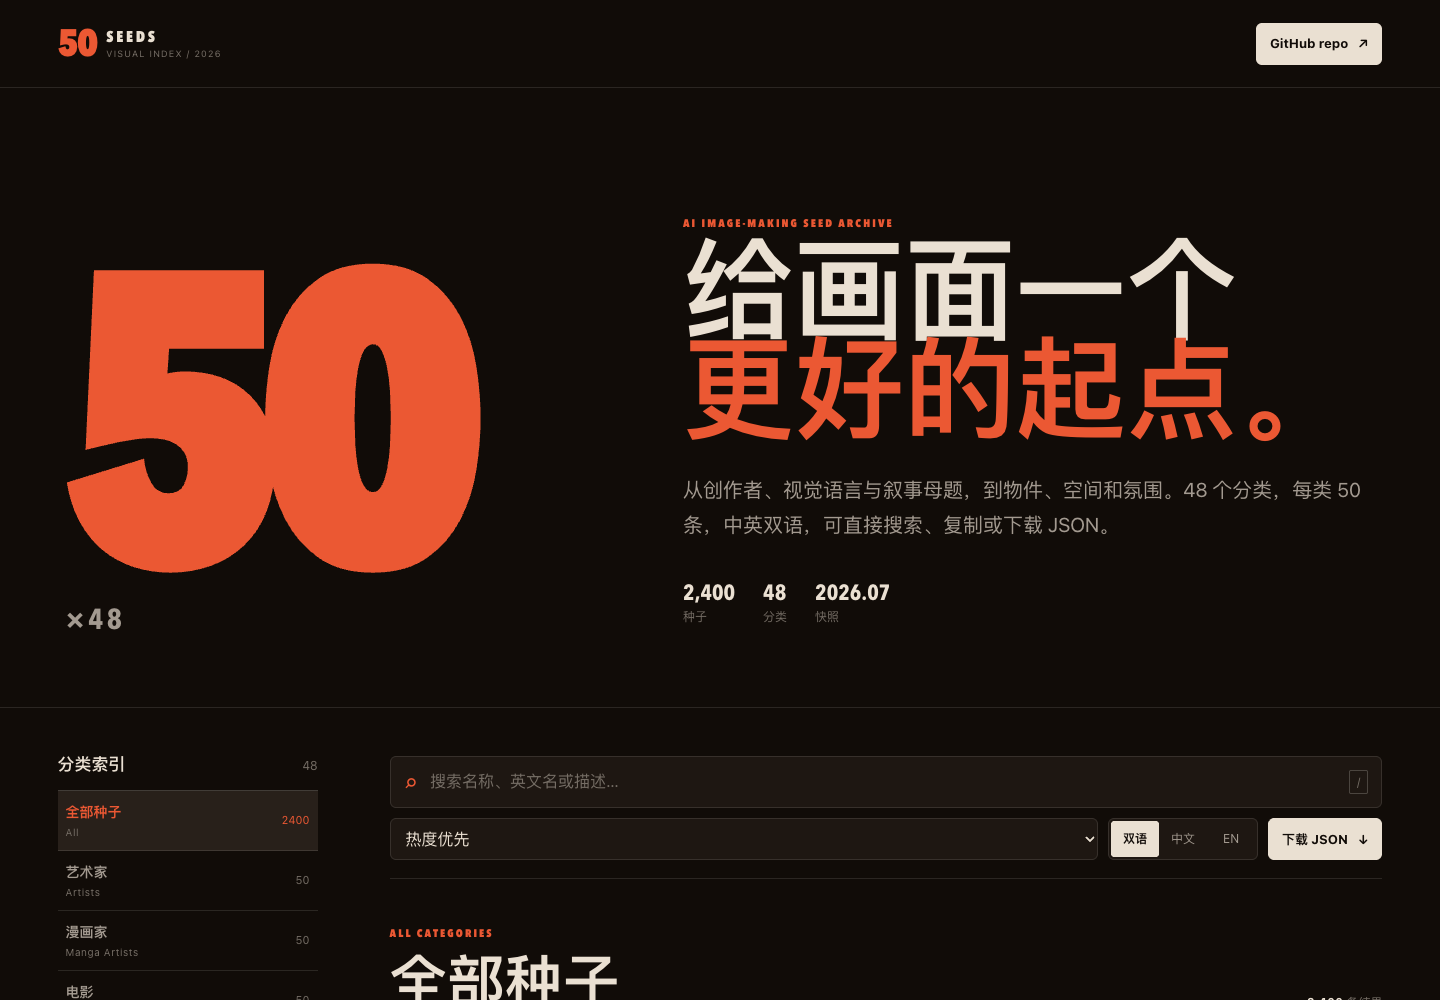
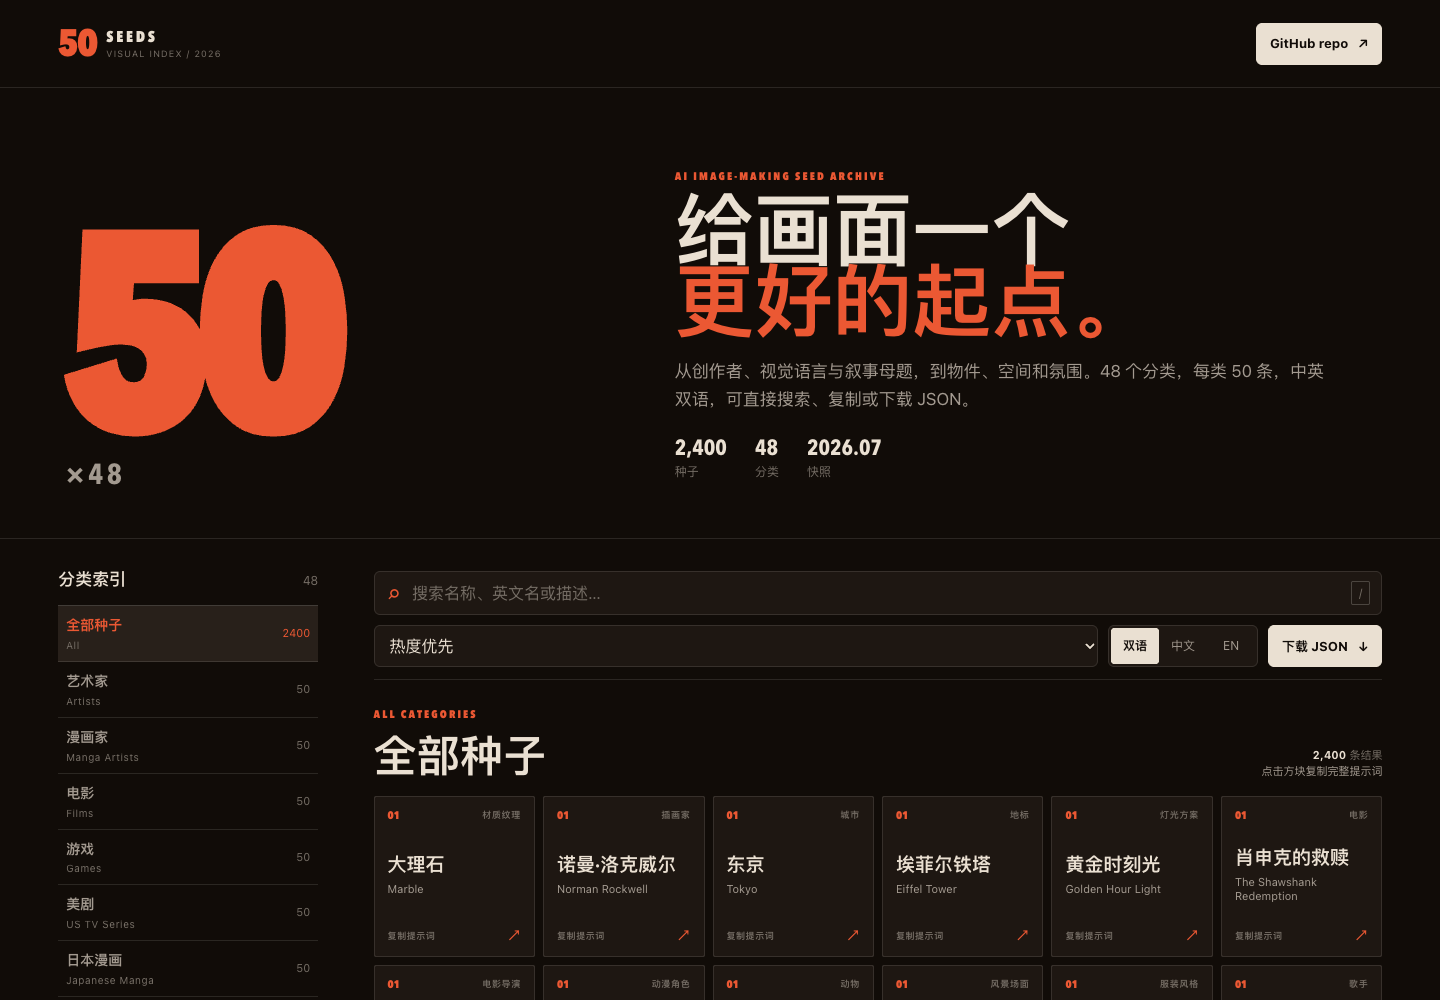
feat: compact seed browser into tile grid

diff --git a/styles.css b/styles.css
@@ -119,26 +119,26 @@ button:focus-visible, a:focus-visible, input:focus-visible, select:focus-visible
 main { display: block; }
 
 .intro {
-  min-height: 620px;
+  min-height: 390px;
   display: grid;
   grid-template-columns: minmax(260px, .9fr) minmax(460px, 1.2fr);
   align-items: end;
-  gap: clamp(32px, 7vw, 120px);
-  padding: clamp(56px, 9vw, 128px) clamp(20px, 4vw, 64px) 72px;
+  gap: clamp(32px, 6vw, 96px);
+  padding: clamp(48px, 6vw, 82px) clamp(20px, 4vw, 64px) 48px;
   border-bottom: 1px solid var(--hairline);
   overflow: hidden;
 }
 
 .intro-number {
   color: var(--accent);
-  font: 850 clamp(190px, 29vw, 430px)/.68 var(--font-display);
+  font: 850 clamp(150px, 20vw, 286px)/.68 var(--font-display);
   letter-spacing: -.085em;
   white-space: nowrap;
 }
 
 .intro-number span {
   display: block;
-  margin: 30px 0 0 8px;
+  margin: 22px 0 0 8px;
   color: var(--muted);
   font: 650 clamp(20px, 2vw, 30px)/1 var(--font-display);
   letter-spacing: .12em;
@@ -149,16 +149,16 @@ main { display: block; }
 
 h1, h2, h3, p { margin-top: 0; }
 .intro h1 {
-  margin-bottom: 30px;
+  margin-bottom: 18px;
   font-family: var(--font-display);
-  font-size: clamp(56px, 7.7vw, 116px);
+  font-size: clamp(48px, 5.5vw, 82px);
   font-weight: 650;
   line-height: .89;
   text-wrap: balance;
 }
 
 .intro h1 em { color: var(--accent); font-style: normal; }
-.lede { max-width: 62ch; margin-bottom: 38px; color: var(--muted); font-size: clamp(16px, 1.5vw, 20px); line-height: 1.75; text-wrap: pretty; }
+.lede { max-width: 62ch; margin-bottom: 22px; color: var(--muted); font-size: clamp(14px, 1.25vw, 17px); line-height: 1.65; text-wrap: pretty; }
 
 .stats { display: flex; flex-wrap: wrap; gap: 28px; }
 .stats span { display: grid; color: var(--faint); font-size: 12px; }
@@ -167,8 +167,8 @@ h1, h2, h3, p { margin-top: 0; }
 .workspace {
   display: grid;
   grid-template-columns: 260px minmax(0, 1fr);
-  gap: clamp(32px, 5vw, 80px);
-  padding: 48px clamp(20px, 4vw, 64px) 96px;
+  gap: clamp(28px, 4vw, 56px);
+  padding: 32px clamp(20px, 4vw, 64px) 72px;
 }
 
 .category-panel { position: sticky; top: 20px; align-self: start; max-height: calc(100vh - 40px); overflow: auto; scrollbar-width: thin; }
@@ -179,12 +179,12 @@ h1, h2, h3, p { margin-top: 0; }
 
 .category-button {
   width: 100%;
-  min-height: 54px;
+  min-height: 46px;
   display: flex;
   align-items: center;
   justify-content: space-between;
   gap: 12px;
-  padding: 9px 8px;
+  padding: 7px 8px;
   border: 0;
   border-bottom: 1px solid var(--hairline);
   border-radius: 0;
@@ -204,8 +204,8 @@ h1, h2, h3, p { margin-top: 0; }
 .category-button.is-active b, .category-button.is-active em { color: var(--accent); }
 
 .results-panel { min-width: 0; }
-.toolbar { position: sticky; top: 0; z-index: 10; margin: -16px 0 48px; padding: 16px 0 18px; background: var(--canvas); border-bottom: 1px solid var(--hairline); }
-.search-box { height: 52px; display: flex; align-items: center; gap: 10px; padding: 0 14px; background: var(--surface); border-radius: var(--radius-sm); box-shadow: inset 0 0 0 1px var(--hairline); }
+.toolbar { position: sticky; top: 0; z-index: 10; margin: -10px 0 28px; padding: 10px 0 12px; background: var(--canvas); border-bottom: 1px solid var(--hairline); }
+.search-box { height: 44px; display: flex; align-items: center; gap: 10px; padding: 0 12px; background: var(--surface); border-radius: var(--radius-sm); box-shadow: inset 0 0 0 1px var(--hairline); }
 .search-box > span { color: var(--accent); font-size: 24px; line-height: 1; }
 .search-box input { min-width: 0; flex: 1; border: 0; outline: 0; background: transparent; color: var(--paper); }
 .search-box input::placeholder { color: var(--faint); }
@@ -229,38 +229,57 @@ kbd { border: 1px solid var(--hairline-strong); border-radius: var(--radius-xs);
 .language-toggle button.is-active { background: var(--paper); color: var(--canvas); font-weight: 700; }
 .toolbar-row .download-link { min-height: 42px; }
 
-.result-heading { display: flex; align-items: end; justify-content: space-between; gap: 20px; margin-bottom: 12px; }
-.result-heading h2 { margin: 0; font: 650 clamp(34px, 4vw, 58px)/1 var(--font-display); }
-.result-heading > p { margin: 0; color: var(--faint); font-size: 12px; }
+.result-heading { display: flex; align-items: end; justify-content: space-between; gap: 20px; margin-bottom: 16px; }
+.result-heading h2 { margin: 0; font: 650 clamp(30px, 3vw, 44px)/1 var(--font-display); }
+.result-heading > p { margin: 0; color: var(--faint); font-size: 11px; line-height: 1.5; text-align: right; }
+.result-heading > p span { color: var(--muted); }
 .result-heading strong { color: var(--paper); font-variant-numeric: tabular-nums; }
 
 .status { padding: 28px 0; color: var(--muted); border-top: 1px solid var(--hairline); }
-.seed-list { margin: 0; padding: 0; list-style: none; border-top: 1px solid var(--hairline-strong); }
-.seed-item {
-  min-height: 128px;
+.seed-list {
   display: grid;
-  grid-template-columns: 42px minmax(0, 1fr) auto;
-  gap: 18px;
-  align-items: start;
-  padding: 20px 10px 22px 0;
-  border-bottom: 1px solid var(--hairline);
-  transition-property: transform, opacity;
-  transition-duration: 180ms;
+  grid-template-columns: repeat(auto-fill, minmax(142px, 1fr));
+  gap: 8px;
+  margin: 0;
+  padding: 0;
+  list-style: none;
+}
+.seed-item {
+  min-width: 0;
+  aspect-ratio: 1;
 }
 
-.rank { color: var(--accent); font: 700 12px/1.6 var(--font-display); font-variant-numeric: tabular-nums; }
-.seed-content { display: grid; grid-template-columns: minmax(190px, .55fr) minmax(280px, 1fr); gap: clamp(20px, 4vw, 64px); }
-.seed-category { display: block; margin-bottom: 5px; color: var(--accent); font: 700 9px/1 var(--font-display); letter-spacing: .14em; }
-.seed-title h3 { margin-bottom: 2px; font: 650 clamp(19px, 2vw, 24px)/1.2 var(--font-display); text-wrap: balance; }
-.seed-title p { margin: 0; color: var(--faint); font-size: 12px; line-height: 1.45; }
-.seed-description p { max-width: 76ch; margin: 0 0 6px; color: var(--muted); font-size: 13px; line-height: 1.65; text-wrap: pretty; }
-.seed-description p[lang="en"] { color: var(--faint); }
-.copy-button { min-width: 48px; min-height: 40px; padding: 0 10px; border: 1px solid var(--hairline-strong); border-radius: var(--radius-sm); background: transparent; color: var(--muted); font-size: 12px; cursor: pointer; transition-property: transform, opacity; transition-duration: 140ms; }
+.seed-tile {
+  width: 100%;
+  height: 100%;
+  min-width: 0;
+  display: grid;
+  grid-template-rows: auto 1fr auto;
+  gap: 10px;
+  padding: 13px;
+  border: 1px solid var(--hairline);
+  border-radius: var(--radius-xs);
+  background: var(--surface);
+  color: var(--paper);
+  text-align: left;
+  cursor: pointer;
+  transition: transform 150ms ease, border-color 150ms ease, background-color 150ms ease;
+}
+.seed-meta, .copy-cue { display: flex; align-items: center; justify-content: space-between; gap: 8px; min-width: 0; }
+.rank { color: var(--accent); font: 750 11px/1 var(--font-display); font-variant-numeric: tabular-nums; }
+.seed-category { min-width: 0; overflow-wrap: anywhere; color: var(--faint); font: 700 9px/1.2 var(--font-display); letter-spacing: .08em; text-align: right; }
+.seed-name { min-width: 0; align-self: center; display: grid; gap: 5px; }
+.seed-name strong { overflow-wrap: anywhere; font: 650 19px/1.15 var(--font-display); }
+.seed-name > span { overflow-wrap: anywhere; color: var(--muted); font-size: 11px; line-height: 1.25; }
+.seed-tile.has-long-name .seed-name strong { font-size: 16px; line-height: 1.12; }
+.seed-tile.has-long-name .seed-name > span { font-size: 10px; line-height: 1.18; }
+.copy-cue { color: var(--faint); font: 650 9px/1 var(--font-display); letter-spacing: .06em; }
+.copy-cue > span:last-child { color: var(--accent); font-size: 13px; }
 
 .load-more { width: 100%; min-height: 54px; margin-top: 18px; border: 1px solid var(--hairline-strong); border-radius: var(--radius-sm); background: var(--surface); color: var(--paper); cursor: pointer; }
 .load-more span { color: var(--accent); font-variant-numeric: tabular-nums; }
 
-.methodology { display: grid; grid-template-columns: .5fr 1fr 1fr; gap: clamp(24px, 5vw, 72px); padding: 88px clamp(20px, 4vw, 64px); background: var(--surface); border-top: 1px solid var(--hairline); }
+.methodology { display: grid; grid-template-columns: .5fr 1fr 1fr; gap: clamp(24px, 5vw, 72px); padding: 56px clamp(20px, 4vw, 64px); background: var(--surface); border-top: 1px solid var(--hairline); }
 .methodology h2 { max-width: 12ch; margin: 0; font: 650 clamp(36px, 5vw, 68px)/.98 var(--font-display); text-wrap: balance; }
 .methodology > p:not(.eyebrow) { max-width: 64ch; margin: 0; color: var(--muted); text-wrap: pretty; }
 .source-links { grid-column: 2 / -1; display: flex; flex-wrap: wrap; gap: 8px; }
@@ -280,8 +299,7 @@ footer div { display: flex; gap: 20px; }
 @media (hover: hover) {
   .repo-link:hover, .download-link:hover { opacity: .82; transform: translateY(-2px); }
   .category-button:hover { transform: translateX(3px); color: var(--paper); }
-  .seed-item:hover { transform: translateX(3px); background: var(--surface); }
-  .copy-button:hover { color: var(--paper); border-color: var(--accent); }
+  .seed-tile:hover { transform: translateY(-2px); border-color: var(--accent); background: var(--surface-raised); }
   .source-links a:hover { color: var(--paper); border-color: var(--accent); }
 }
 
@@ -290,12 +308,18 @@ footer div { display: flex; gap: 20px; }
   .brand-mark { font-size: 32px; }
   .repo-link { min-width: 42px; padding-inline: 11px; font-size: 0; }
   .repo-link span { font-size: 18px; }
-  .intro { min-height: auto; grid-template-columns: 1fr; gap: 42px; padding: 64px 20px 56px; }
-  .intro-number { font-size: clamp(150px, 50vw, 230px); }
-  .intro-number span { margin-top: 24px; }
-  .intro h1 { font-size: clamp(54px, 16vw, 88px); }
-  .workspace { display: block; padding: 28px 20px 72px; }
-  .category-panel { position: static; max-height: none; margin-bottom: 28px; overflow: visible; }
+  .intro { min-height: auto; grid-template-columns: 92px minmax(0, 1fr); align-items: start; gap: 18px; padding: 28px 20px 30px; }
+  .intro-number { font-size: 82px; line-height: .72; }
+  .intro-number span { display: block; margin: 13px 0 0 4px; font-size: 14px; }
+  .intro-copy { padding: 0; }
+  .intro-copy .eyebrow { margin-bottom: 9px; font-size: 9px; letter-spacing: .14em; }
+  .intro h1 { margin-bottom: 0; font-size: clamp(38px, 11vw, 50px); }
+  .lede { display: none; }
+  .stats { gap: 14px; margin-top: 18px; }
+  .stats strong { font-size: 18px; }
+  .stats span { font-size: 10px; }
+  .workspace { display: block; padding: 22px 20px 56px; }
+  .category-panel { position: static; max-height: none; margin-bottom: 20px; overflow: visible; }
   .panel-heading { padding-bottom: 12px; }
   .category-list { display: flex; gap: 8px; margin: 0 -20px; padding: 12px 20px 6px; overflow-x: auto; scroll-snap-type: x proximity; scrollbar-width: none; }
   .category-list::-webkit-scrollbar { display: none; }
@@ -303,16 +327,12 @@ footer div { display: flex; gap: 20px; }
   .category-button small { display: none; }
   .category-button.is-active { border-color: var(--accent); background: var(--accent); color: var(--accent-ink); }
   .category-button.is-active b, .category-button.is-active em { color: var(--accent-ink); }
-  .toolbar { margin: 0 -20px 36px; padding: 12px 20px 16px; }
+  .toolbar { margin: 0 -20px 24px; padding: 10px 20px 12px; }
   .toolbar-row { flex-wrap: wrap; }
   .select-wrap { min-width: 120px; }
   .toolbar-row .download-link { flex: 1; justify-content: center; }
   .result-heading { align-items: start; }
-  .result-heading h2 { font-size: 42px; }
-  .seed-item { grid-template-columns: 34px minmax(0, 1fr) auto; gap: 10px; padding-right: 0; }
-  .seed-content { grid-template-columns: 1fr; gap: 12px; }
-  .seed-title h3 { font-size: 21px; }
-  .copy-button { align-self: start; }
+  .result-heading h2 { font-size: 36px; }
   .methodology { grid-template-columns: 1fr; padding: 64px 20px; }
   .methodology h2 { max-width: 11ch; }
   .source-links { grid-column: auto; }
@@ -326,9 +346,10 @@ footer div { display: flex; gap: 20px; }
   .language-toggle { flex: 1; }
   .language-toggle button { flex: 1; min-width: 0; }
   .result-heading { display: block; }
-  .result-heading > p { margin-top: 10px; }
-  .seed-item { grid-template-columns: 28px minmax(0, 1fr); }
-  .copy-button { grid-column: 2; width: fit-content; }
+  .result-heading > p { margin-top: 8px; text-align: left; }
+  .seed-list { grid-template-columns: repeat(2, minmax(0, 1fr)); gap: 6px; }
+  .seed-tile { padding: 11px; }
+  .seed-name strong { font-size: 17px; }
   footer { display: grid; }
 }
 

diff --git a/app.js b/app.js
@@ -4,10 +4,10 @@ const state = {
   search: "",
   sort: "priority",
   language: "both",
-  visible: 72
+  visible: 120
 };
 
-const pageSize = 72;
+const pageSize = 120;
 const elements = {
   categoryList: document.querySelector("#category-list"),
   categoryCounter: document.querySelector("#category-counter"),
@@ -68,21 +68,20 @@ function renderCategories() {
 function resultMarkup(seed) {
   const showZh = state.language !== "en";
   const showEn = state.language !== "zh";
+  const hasLongName = seed.name.length > 12 || seed.englishName.length > 28;
   return `
     <li class="seed-item" data-seed-id="${seed.id}">
-      <span class="rank" aria-label="分类内热度排名 ${seed.priority}">${String(seed.priority).padStart(2, "0")}</span>
-      <div class="seed-content">
-        <div class="seed-title">
+      <button type="button" class="seed-tile${hasLongName ? " has-long-name" : ""}" data-copy="${seed.id}" aria-label="复制 ${escapeHtml(seed.name)} 的完整双语提示词">
+        <span class="seed-meta">
+          <span class="rank" aria-label="分类内热度排名 ${seed.priority}">${String(seed.priority).padStart(2, "0")}</span>
           <span class="seed-category">${escapeHtml(seed.categoryName)}</span>
-          <h3>${escapeHtml(seed.name)}</h3>
-          <p lang="en">${escapeHtml(seed.englishName)}</p>
-        </div>
-        <div class="seed-description">
-          ${showZh ? `<p lang="zh-CN">${escapeHtml(seed.style)}</p>` : ""}
-          ${showEn ? `<p lang="en">${escapeHtml(seed.englishStyle)}</p>` : ""}
-        </div>
-      </div>
-      <button type="button" class="copy-button" data-copy="${seed.id}" aria-label="复制 ${escapeHtml(seed.name)} 的双语提示词">复制</button>
+        </span>
+        <span class="seed-name">
+          ${showZh ? `<strong lang="zh-CN">${escapeHtml(seed.name)}</strong>` : ""}
+          ${showEn ? `<span lang="en">${escapeHtml(seed.englishName)}</span>` : ""}
+        </span>
+        <span class="copy-cue"><span>复制提示词</span><span aria-hidden="true">↗</span></span>
+      </button>
     </li>
   `;
 }

diff --git a/index.html b/index.html
@@ -66,7 +66,7 @@
                   <option value="englishName">English A–Z</option>
                 </select>
               </label>
-              <div class="language-toggle" aria-label="描述语言">
+              <div class="language-toggle" aria-label="卡片语言">
                 <button type="button" data-language="both" class="is-active" aria-pressed="true">双语</button>
                 <button type="button" data-language="zh" aria-pressed="false">中文</button>
                 <button type="button" data-language="en" aria-pressed="false">EN</button>
@@ -80,7 +80,7 @@
               <p class="eyebrow" id="active-category-en">ALL CATEGORIES</p>
               <h2 id="active-category">全部种子</h2>
             </div>
-            <p><strong id="result-count">0</strong> 条结果</p>
+            <p><strong id="result-count">0</strong> 条结果<br><span>点击方块复制完整提示词</span></p>
           </div>
 
           <div id="status" class="status" role="status" aria-live="polite">正在载入种子库…</div>

diff --git a/DESIGN.md b/DESIGN.md
@@ -19,11 +19,11 @@ Display uses `Avenir Next Condensed` with PingFang fallbacks for a narrow archiv
 
 ## 4. Component styling
 
-Buttons and filters use 2px, 6px, 12px, and pill as the fixed radius scale. Controls sit on stepped dark surfaces with hairline separators. Records are ledger rows, not floating cards. Hover changes surface and translation by 2px; press scales to 0.97. Focus uses a 2px vermilion outline.
+Buttons and filters use 2px, 6px, 12px, and pill as the fixed radius scale. Controls sit on stepped dark surfaces with hairline separators. Records are compact square index tiles in a responsive grid, with the entire tile acting as the copy action. Hover changes border, surface, and translation by 2px; press scales to 0.97. Focus uses a 2px vermilion outline.
 
 ## 5. Layout principles
 
-Desktop uses a sticky 260px category index and a fluid result ledger. The first screen is asymmetric: a large `50` mark anchors the left while the purpose and controls occupy the right. Spacing follows 4, 8, 12, 16, 24, 32, and 48px.
+Desktop uses a sticky 260px category index and a fluid square-tile grid. The compact first screen is asymmetric: a `50` mark anchors the left while the purpose and controls occupy the right. Spacing follows 4, 8, 12, 16, 24, 32, and 48px.
 
 ## 6. Depth and elevation
 
@@ -46,6 +46,6 @@ Below 820px the category index becomes a horizontal, scrollable filter strip. Th
 ## 9. Agent prompt guide
 
 - Canvas `oklch(16% 0.012 55)`, paper `oklch(91% 0.022 75)`, accent `oklch(65% 0.19 35)`.
-- Create a ledger row with rank at 12px tabular, title at 22px weight 650, bilingual body at 14px and 1.7 line-height, 12px vertical padding, 1px hairline divider.
+- Create a square seed tile with rank at 11px tabular, title at 19px weight 650, English name at 11px, 13px padding, a 1px hairline border, and the full tile as the copy target.
 - Create an active category pill with 42px minimum height, 999px radius, vermilion fill, near-black text, and 0.97 press scale.
 - Create a search field on the stepped surface, 48px high, 6px radius, 1px hairline outline, and 2px vermilion focus ring.
